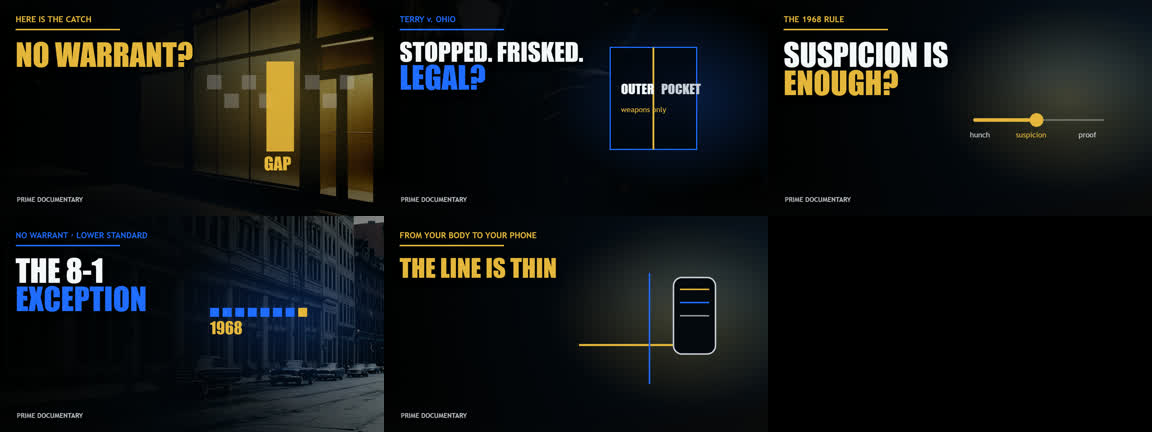
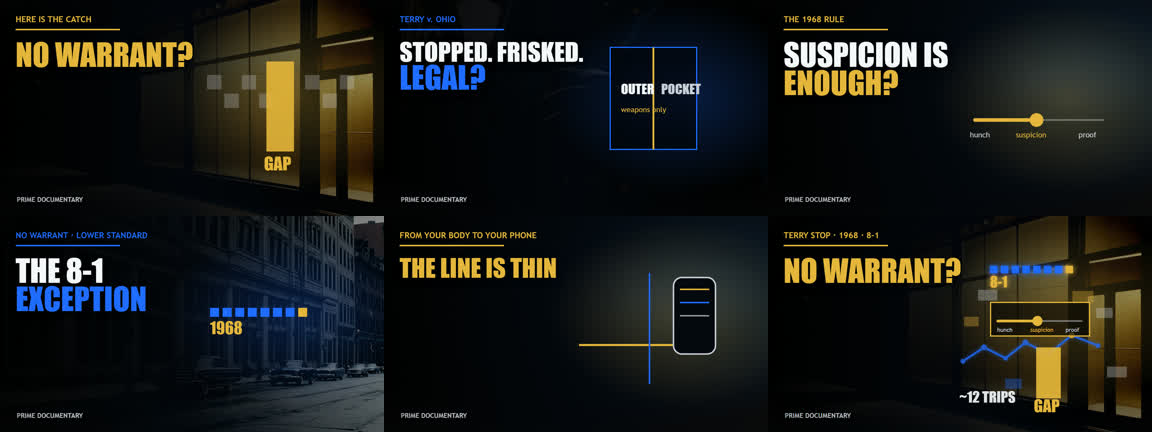
Select dense Terry thumbnail

Changed region(s): [[0.6562, 0.4815, 1.0, 0.963], [0.6875, 0.9329, 0.75, 0.9931], [0.9375, 0.9931, 0.9688, 1.0]]

diff --git a/remotion/src/compositions/TerryThumbnails.tsx b/remotion/src/compositions/TerryThumbnails.tsx
@@ -16,7 +16,7 @@ type ThumbVariant = {
   headline: string;
   kicker: string;
   image?: string;
-  motif: 'gap' | 'frisk' | 'scale' | 'street' | 'phone';
+  motif: 'gap' | 'frisk' | 'scale' | 'street' | 'phone' | 'dense';
   accent: 'blue' | 'gold';
 };
 
@@ -59,6 +59,14 @@ export const terryThumbnailVariants: ThumbVariant[] = [
     motif: 'phone',
     accent: 'gold',
   },
+  {
+    id: 'thumb06',
+    headline: 'NO WARRANT?',
+    kicker: 'TERRY STOP · 1968 · 8-1',
+    image: 'terry/PD-2026-006-terry-S004-IMG-001.v001.png',
+    motif: 'dense',
+    accent: 'gold',
+  },
 ];
 
 const splitHeadline = (headline: string): string[] => {
@@ -69,6 +77,54 @@ const splitHeadline = (headline: string): string[] => {
 };
 
 const Motif: React.FC<{variant: ThumbVariant; accent: string}> = ({variant, accent}) => {
+  if (variant.motif === 'dense') {
+    return (
+      <svg width="1280" height="720" style={{position: 'absolute', inset: 0}}>
+        <defs>
+          <filter id="denseGlow" x="-60%" y="-60%" width="220%" height="220%">
+            <feGaussianBlur stdDeviation="9" result="blur" />
+            <feMerge>
+              <feMergeNode in="blur" />
+              <feMergeNode in="SourceGraphic" />
+            </feMerge>
+          </filter>
+        </defs>
+        <g opacity="0.78">
+          <polyline points="650,484 720,438 792,474 858,422 935,460 1012,398 1100,432" fill="none" stroke={BLUE} strokeWidth="8" strokeLinecap="round" strokeLinejoin="round" />
+          <polyline points="650,484 720,438 792,474 858,422 935,460 1012,398 1100,432" fill="none" stroke={BLUE} strokeWidth="24" strokeLinecap="round" strokeLinejoin="round" opacity="0.14" />
+          {[650,720,792,858,935,1012,1100].map((x, i) => <circle key={x} cx={x} cy={[484,438,474,422,460,398,432][i]} r={i % 2 ? 10 : 8} fill={i === 5 ? GOLD : BLUE} />)}
+        </g>
+        <g transform="translate(740 166)" filter="url(#denseGlow)">
+          {Array.from({length: 8}, (_, i) => <rect key={i} x={i * 36} y="0" width="25" height="25" fill={i === 7 ? GOLD : BLUE} opacity="0.94" />)}
+          <text x="0" y="72" fill={GOLD} fontFamily={BRAND.font.display} fontSize="48">8-1</text>
+        </g>
+        <g transform="translate(742 288)">
+          <rect x="0" y="0" width="330" height="112" fill="#00000099" stroke={GOLD} strokeWidth="4" />
+          <line x1="24" x2="306" y1="62" y2="62" stroke={SILVER} strokeWidth="5" opacity="0.55" />
+          <line x1="24" x2="156" y1="62" y2="62" stroke={GOLD} strokeWidth="9" strokeLinecap="round" />
+          <circle cx="156" cy="62" r="17" fill={GOLD} />
+          <text x="22" y="98" fill={SILVER} fontFamily={BRAND.font.body} fontSize="19">hunch</text>
+          <text x="132" y="98" fill={GOLD} fontFamily={BRAND.font.body} fontSize="19">suspicion</text>
+          <text x="250" y="98" fill={SILVER} fontFamily={BRAND.font.body} fontSize="19">proof</text>
+        </g>
+        <g transform="translate(894 438)">
+          <rect x="0" y="0" width="82" height="170" fill={GOLD} opacity="0.92" />
+          <text x="-8" y="216" fill={GOLD} fontFamily={BRAND.font.display} fontSize="55">GAP</text>
+        </g>
+        <g opacity="0.62">
+          {[
+            [1015,250,70,38,GOLD],
+            [1095,306,54,34,SILVER],
+            [700,246,64,36,SILVER],
+            [654,336,48,32,GOLD],
+            [1130,502,66,36,SILVER],
+            [790,542,56,34,BLUE],
+          ].map(([x,y,w,h,c], i) => <rect key={i} x={x as number} y={y as number} width={w as number} height={h as number} fill={c as string} opacity="0.55" />)}
+        </g>
+        <text x="638" y="622" fill={WHITE} fontFamily={BRAND.font.display} fontSize="48" opacity="0.92">~12 TRIPS</text>
+      </svg>
+    );
+  }
   if (variant.motif === 'frisk') {
     return (
       <svg width="1280" height="720" style={{position: 'absolute', inset: 0}}>

diff --git a/scripts/build_terry_thumbnails_v001.py b/scripts/build_terry_thumbnails_v001.py
@@ -61,6 +61,12 @@ VARIANTS = [
         "kicker": "FROM YOUR BODY TO YOUR PHONE",
         "assessment": "Best series-bridge option into Riley; more elegant than urgent.",
     },
+    {
+        "id": "thumb06",
+        "headline": "NO WARRANT?",
+        "kicker": "TERRY STOP - 1968 - 8-1",
+        "assessment": "Denser alternate requested by owner: adds the trip path, 8-1 ruling, suspicion scale, and GAP motif while keeping the main hook readable.",
+    },
 ]
 
 
@@ -121,10 +127,11 @@ def render_options() -> list[dict]:
 
 def build_contact_sheet() -> str:
     inputs: list[str] = []
-    for i in range(1, 6):
+    for i in range(1, len(VARIANTS) + 1):
         inputs.extend(["-i", str(OUT_DIR / f"thumbnail_option_{i:02d}.v001.png")])
-    labels = "".join(f"[{i}:v]scale=384:216[t{i}];" for i in range(5))
-    layout = "color=c=black:s=384x216[blank];[t0][t1][t2][t3][t4][blank]xstack=inputs=6:layout=0_0|384_0|768_0|0_216|384_216|768_216[out]"
+    labels = "".join(f"[{i}:v]scale=384:216[t{i}];" for i in range(len(VARIANTS)))
+    layout = "".join(f"[t{i}]" for i in range(len(VARIANTS)))
+    layout += "xstack=inputs=6:layout=0_0|384_0|768_0|0_216|384_216|768_216[out]"
     run([
         FFMPEG,
         "-y",
@@ -146,7 +153,7 @@ def write_options(options: list[dict], contact_hash: str) -> None:
         "episode_id": EP,
         "revision": "v001",
         "generated_at": datetime.now(timezone.utc).isoformat(),
-        "status": "thumbnail_gate_ready",
+        "status": "thumbnail_selected_not_published",
         "publish_performed": False,
         "upload_performed": False,
         "ai_disclosure_required": True,
@@ -157,10 +164,12 @@ def write_options(options: list[dict], contact_hash: str) -> None:
             "artifact://episodes/PD-2026-006-terry/05_visuals/selected/S018/PD-2026-006-terry-S018-IMG-001.v001.png",
         ],
         "recommended_shortlist": [
+            "thumbnail_option_06.v001.png",
             "thumbnail_option_01.v001.png",
             "thumbnail_option_02.v001.png",
-            "thumbnail_option_03.v001.png",
         ],
+        "selected": "thumbnail_option_06.v001.png",
+        "selection_reason": "Owner requested a denser thumbnail than option 01. Option 06 keeps the NO WARRANT? hook readable while adding the Terry-specific trip path, 8-1 ruling cue, suspicion scale, and GAP motif.",
         "options": options,
         "contact_sheet": {
             "file": f"episodes/{EP}/10_thumbnail/{CONTACT.name}",